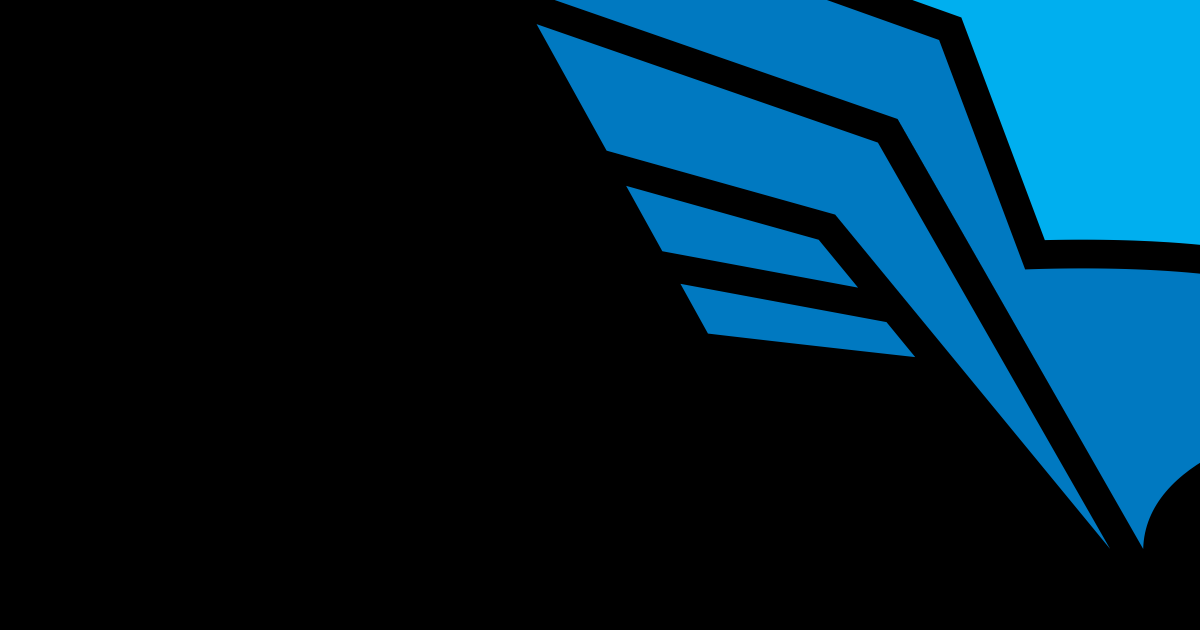
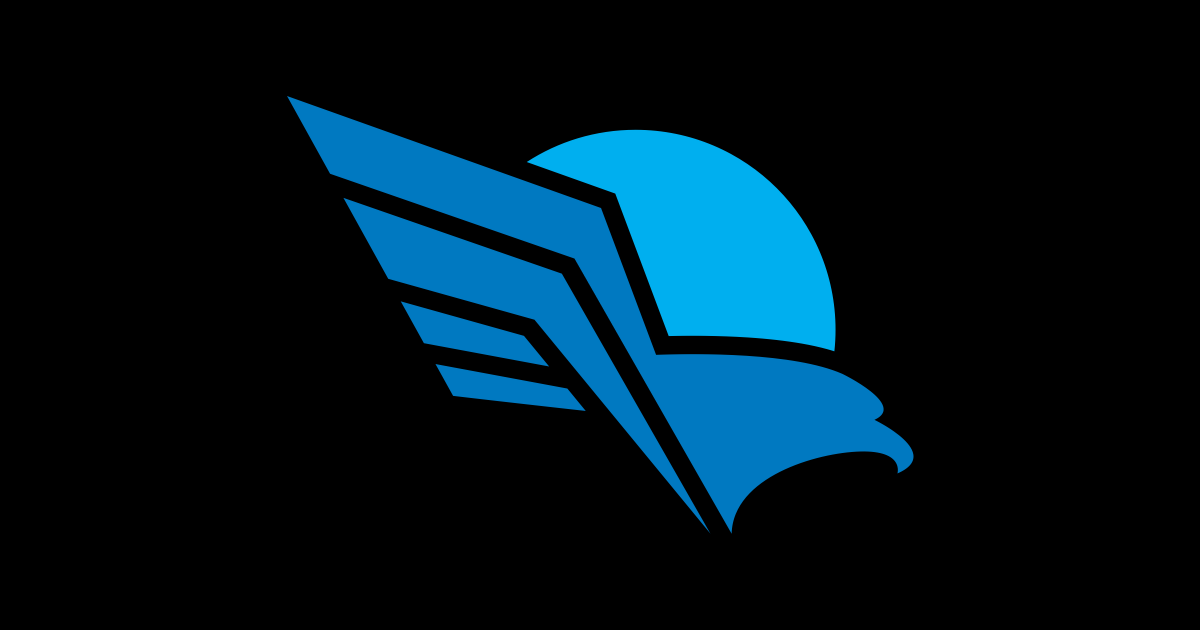
Fix OG preview centering and set title to Highview

diff --git a/index.html b/index.html
@@ -3,13 +3,13 @@
   <head>
     <meta charset="UTF-8" />
     <meta name="viewport" content="width=device-width, initial-scale=1.0" />
-    <title>Highview | Private Circle</title>
+    <title>Highview</title>
     <meta
       name="description"
       content="Highview is a private investing circle built on research, discipline, and conviction."
     />
     <link rel="icon" type="image/svg+xml" href="./assets/highview-eagle.svg" />
-    <meta property="og:title" content="Highview | Private Circle" />
+    <meta property="og:title" content="Highview" />
     <meta
       property="og:description"
       content="Highview is a private investing circle built on research, discipline, and conviction."
@@ -17,7 +17,7 @@
     <meta property="og:type" content="website" />
     <meta property="og:image" content="https://highview.us/assets/og-image.png" />
     <meta name="twitter:card" content="summary_large_image" />
-    <meta name="twitter:title" content="Highview | Private Circle" />
+    <meta name="twitter:title" content="Highview" />
     <meta
       name="twitter:description"
       content="Highview is a private investing circle built on research, discipline, and conviction."
